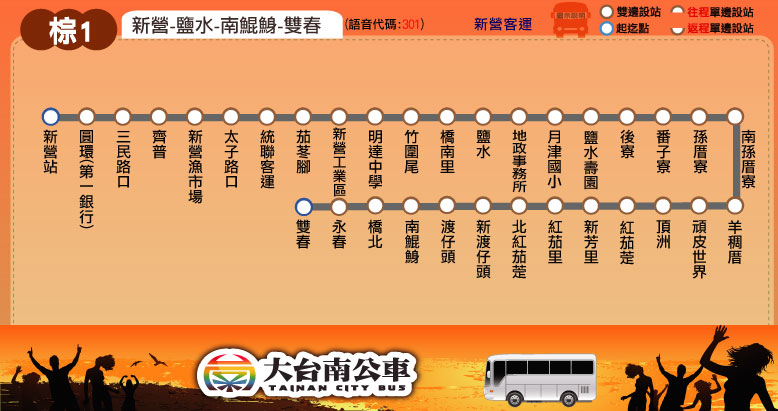
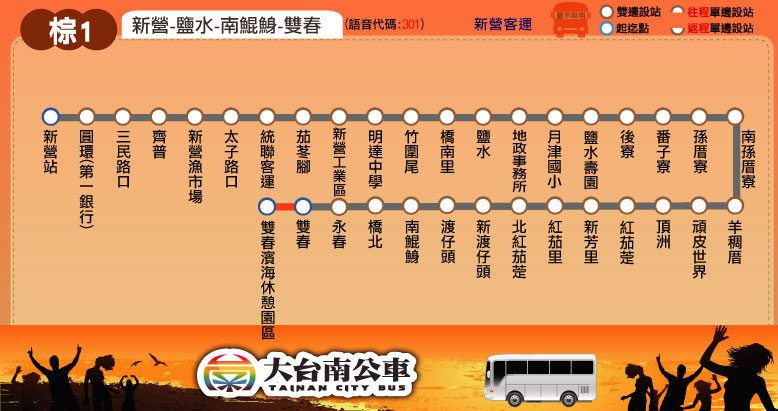
更新路線圖、票價表與時刻表：棕1(延駛「雙春濱海遊憩區」)

Changed region(s): [[0.3085, 0.4672, 0.401, 0.8467]]

diff --git a/route/fare_and_time/brown_1.js b/route/fare_and_time/brown_1.js
@@ -1,39 +1,47 @@
-brown_1_interval_name = ["新營","茄苳腳","鹽水","後寮","番子寮","孫厝寮","羊稠厝","頂洲","北紅茄萣","新渡子頭","渡子頭","南鯤鯓","雙春"];
-brown_1_interval_stop = [
+brown_1_interval_name = ["新營","茄苳腳","鹽水","後寮","番子寮","孫厝寮","羊稠厝","頂洲","紅茄萣","新芳里","紅茄里","北紅茄萣","新渡子頭","渡子頭","南鯤鯓","雙春"];
+brown_1_interval_stop = [ // 2016.11.20 checked
 ["新營站","圓環","三民路口","齊普","新營漁市場","太子路口","統聯客運"], // 新營
 ["茄苳腳","新營工業區","明達中學"], // 茄苳腳
 ["竹圍尾","橋南里","鹽水","地政事務所","月津國小","鹽水壽園"], // 鹽水
 ["後寮"], // 後寮
 ["番子寮"], // 番子寮
 ["孫厝寮","南孫厝寮"], // 孫厝寮
-["羊稠厝","頑皮世界"], // 羊稠厝
-["頂洲","紅茄萣","新芳里","紅茄里"], // 頂洲
+["羊稠厝"], // 羊稠厝
+["頑皮世界","頂洲"], // 頂洲
+["紅茄萣"], // 紅茄萣
+["新芳里"], // 新芳里
+["紅茄里"], // 紅茄里
 ["北紅茄萣"], // 北紅茄萣
 ["新渡子頭"], // 新渡子頭
 ["渡子頭"], // 渡子頭
-["南鯤鯓","橋北"], // 南鯤鯓
-["永春","雙春"] // 雙春
+["南鯤鯓"], // 南鯤鯓
+["橋北","永春","雙春","雙春濱海遊憩區"] // 雙春
 ];
 brown_1_fare = [
 [26],
 [26,26],
 [26,26,26],
-[33,26,26,26],
+[34,26,26,26],
 [40,26,26,26,26],
 [46,30,26,26,26,26],
 [50,34,26,26,26,26,26],
-[55,40,30,26,26,26,26,26],
-[60,44,34,26,26,26,26,26,26],
-[67,51,42,34,27,26,26,26,26,26],
-[71,55,46,38,32,26,26,26,26,26,26],
-[82,66,57,49,42,36,32,26,26,26,26,26],
-[88,72,63,55,49,43,39,33,29,26,26,26,26]
+[55,39,31,26,26,26,26,26],
+[59,43,35,26,26,26,26,26,26],
+[62,46,37,28,26,26,26,26,26,26],
+[65,49,40,31,26,26,26,26,26,26,26],
+[68,52,43,34,27,26,26,26,26,26,26,26],
+[73,57,48,39,33,27,26,26,26,26,26,26,26],
+[77,61,53,43,37,31,27,26,26,26,26,26,26,26],
+[88,72,63,54,47,42,38,33,26,26,26,26,26,26,26],
+[97,81,72,63,56,51,47,42,37,35,32,29,26,26,26,26]
 ];
 // format = [time at the start stop] or
 // [time, other] or
 // [time, start_stop, end_stop, other]
-brown_1_main_stop_name = ["新營","統聯客運","鹽水","頑皮世界","新芳里","南鯤鯓","雙春"];
-brown_1_main_stop_time_consume = [0, 8, 18, 35, 43, 58, 62];
-brown_1_important_stop = [0, 2, 3, 5, 6]; // 新營, 鹽水, 頑皮世界, 南鯤鯓, 雙春
+brown_1_main_stop_name = ["新營","統聯客運","鹽水","頑皮世界","新芳里","南鯤鯓","雙春","雙春濱海<br />遊憩區"];
+brown_1_main_stop_time_consume = [0, 8, 18, 35, 43, 58, 62, 67];
+brown_1_important_stop = [0, 2, 3, 5, 6, 7]; // 新營, 鹽水, 頑皮世界, 南鯤鯓, 雙春, 雙春濱海遊憩區
+var start_stop = 0; // 新營
+var end_stop = 6; // 雙春
 brown_1_time_go = [["09:45"],["11:45"],["14:25"],["17:50"]];
-brown_1_time_return = [["05:55"],["10:55"],["12:55"],["15:35"]];
+brown_1_time_return = [["05:55",end_stop,start_stop],["11:00"],["13:00"],["15:40"]];
